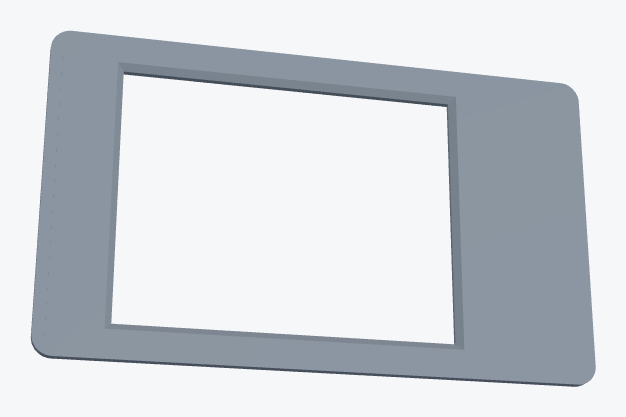
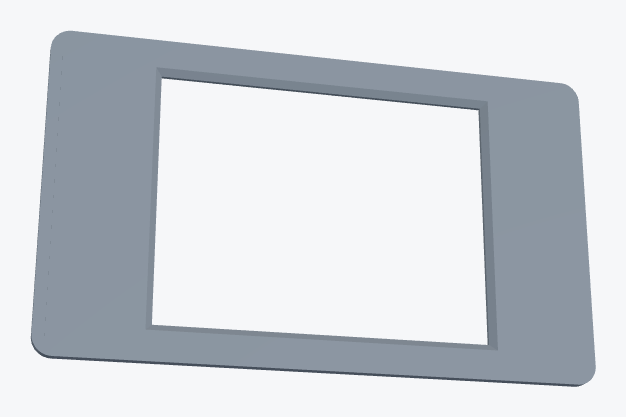
Fix original lid: use the real centred v1 lid, add lid comparison
The archived v1 lid was accidentally the same file as the shifted lid
(the generator overwrote case_lid.stl). Restored the real first lid,
re-rendered it, and documented the differences. Removed location hints.

Claude-Session: https://claude.ai/code/session_01RPQw6btHRV2FXbZkCgycn1

diff --git a/firmware/obd_monitor/config.h b/firmware/obd_monitor/config.h
@@ -20,7 +20,7 @@
 #define DEFAULT_AP_SSID "OBD-Monitor"
 #define DEFAULT_AP_PASS "12345678"      // min 8 characters
 
-// ---- Time zone for the clock on the screen (Israel) ----
+// ---- Time zone for the clock on the screen (POSIX TZ string - change for your region) ----
 #define TZ_INFO "IST-2IDT,M3.4.4/26,M10.5.0"
 
 // ---- Limits ----

diff --git a/README.md b/README.md
@@ -177,10 +177,22 @@ Both boxes have the same openings: USB-C (low) + OBD cable hole (above) on the l
 <tr><td><code>case/archive/lid_v1_centered.stl</code></td><td><b><code>case/v2/lid_shift5.5.stl</code></b></td><td>rim, click bumps, wire gaps, dot</td></tr>
 </table>
 
-How the lid works: a 1.6 mm front plate with the screen window and a bevelled edge. On the inside, a 5.5 mm rim slides into the box (0.2 mm fit gap). The display PCB sits inside the rim, glass against the plate. Four small bumps click into grooves in the box walls. Gaps in the short ends of the rim let the display wires through. A **raised dot** inside marks the pin-header end.
+How the lid works: a 1.6 mm front plate with the screen window and a bevelled edge. On the inside, a 5.5 mm rim slides into the box (0.2 mm fit gap). The display PCB sits inside the rim, glass against the plate. Four small bumps click into grooves in the box walls. Gaps in the short ends of the rim let the display wires through. On the v2 lid, a **raised dot** inside marks the pin-header end.
 
-- **Original lid (v1, centred window):** the window is centred on the display PCB. On the real 2.4" board the picture isn't centred, so the screen sat off the window and the plastic covered part of it. Kept only for reference.
-- **Shifted lid (v2, tested ✅):** the window (38.7 × 51.0 mm) is **moved 5.5 mm away from the pin-header end**, so it lines up with the actual picture. **Print this one.** Put the display in with its pin header at the dot.
+#### Difference between the two lids
+
+| | Original lid (v1) | Shifted lid (v2) ✅ |
+|---|---|---|
+| File | `case/archive/lid_v1_centered.stl` | `case/v2/lid_shift5.5.stl` |
+| Window position | Centred on the display PCB | **Moved 5.5 mm** along the long side, away from the pin-header end |
+| Window size (inner edge) | 38.3 × 50.6 mm (0.8 mm margin around the picture) | 38.7 × 51.0 mm (1.0 mm margin) |
+| Window size (outer bevel) | 40.3 × 52.6 mm | 40.6 × 52.9 mm |
+| Orientation dot | none | Raised Ø 3 mm dot inside, at the pin-header end |
+| Result on the real display | The picture sat ~5.5 mm off the window, so plastic covered one edge of the screen and showed the bare board at the other | The window lines up with the picture |
+| Everything else | Same outside size (49.3 × 83.8 × 7.1 mm), 1.6 mm plate, 5.5 mm rim, 4 click bumps, wire gaps, ≈ 2 m PLA | same |
+
+Why the shift: on these 2.4" boards the visible screen is **not centred** on the red PCB. It sits about 5.5 mm away from the end with the 14-pin header. The v1 lid assumed it was centred. The v2 lid moves the window to where the picture really is. This was measured on the printed v1 lid and confirmed with a test print.
+When assembling, put the display in with its **pin header at the dot**, or the window will be off the other way.
 
 **Printing:** PLA, 0.2 mm layers. Box open side up, lid face down; no supports needed.
 To change sizes, edit the numbers at the top of the scripts in `case/v2/` and run them (`pip install manifold3d trimesh numpy`).
